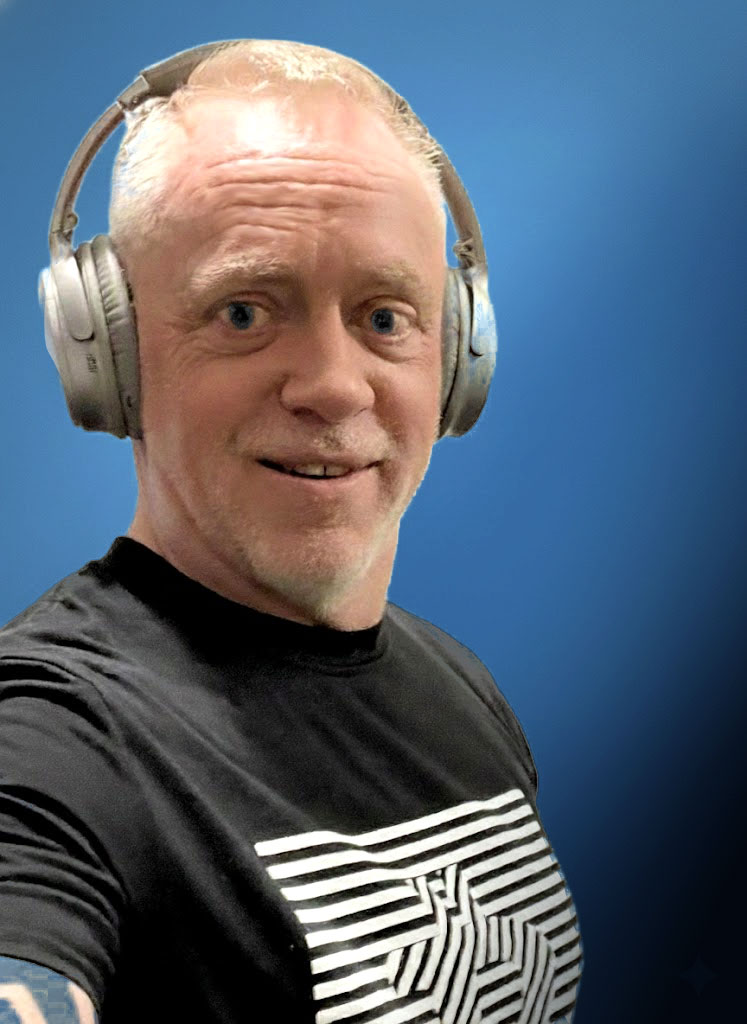
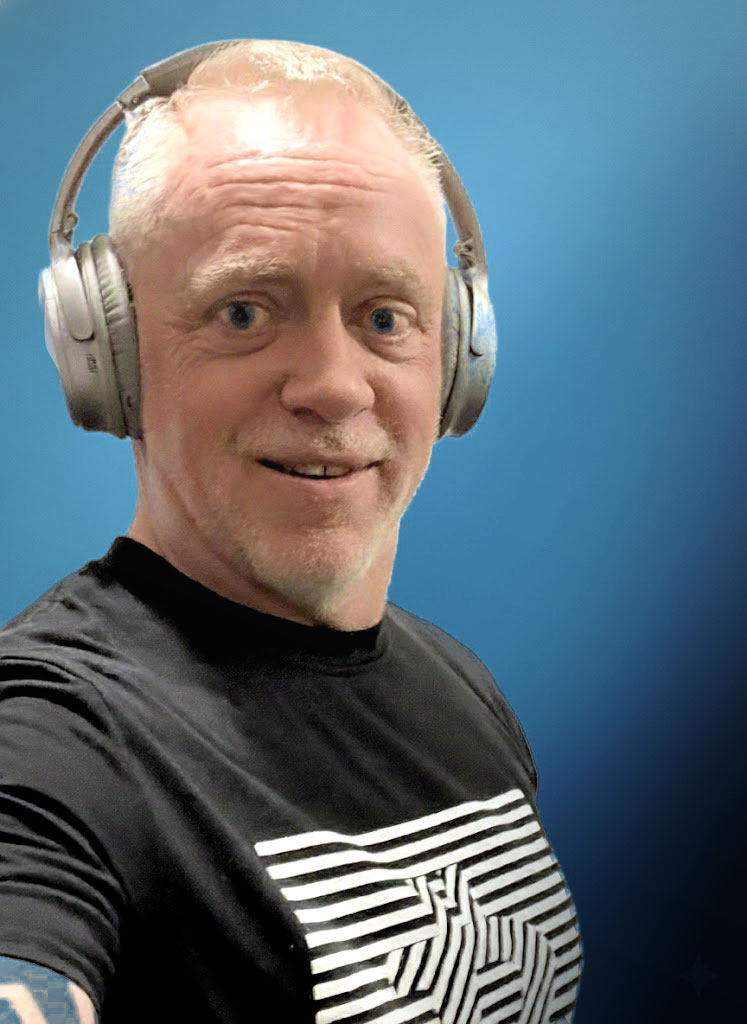
refinements

Changed region(s): [[0.0924, 0.0, 1.0, 0.3125], [0.0308, 0.0, 0.0616, 0.0312]]

diff --git a/client/src/pages/Home.js b/client/src/pages/Home.js
@@ -58,8 +58,12 @@ function Home() {
     return (
  
         <div className="homebio">
-          {bio} <br />
-          {bio2}<br />
+          {bio}
+          <p>
+          With a background in design, animation, and advertising,&nbsp;<nobr>I care about both</nobr> user experience and system architecture. <nobr>I enjoy collaborating</nobr> with product designers and engineers to develop elegant solutions to complex 
+          problems. <nobr>I’m endlessly curious </nobr>and always learning.</p>
+
+          
             <div className="sublinks">
               <Link to="/Skills">
                 <div className={"mbutton "}>Skills</div>
@@ -83,7 +87,7 @@ function Home() {
       return (
         <div className="homebodyMobile">
         <BioBlock />
-        <p className="shieldTitle">Current Development Stack:</p>
+        <p className="shieldTitle">Preferred Development Stack:</p>
         <div className="shieldGroup group">
           <div className="shieldContainer">
             <img src={react} className="shield" alt="shield" />

diff --git a/client/src/pages/Resume.jsx b/client/src/pages/Resume.jsx
@@ -206,7 +206,7 @@ function Resume() {
           </div>
           <div className='worksBox'>
 
-            <p><strong>Front End Software Engineer</strong>, <br /><span className='nobr'>Grid Dynamics - San Francisco, CA, 2021 – Current</span>
+            <p><strong>Front End Software Engineer</strong>, <br /><span>Grid Dynamics - San Francisco, CA, 2021 – Current</span>
               <br></br>
               <strong></strong></p>
             <ul>
@@ -249,7 +249,7 @@ using Elastic Search, and various custom micro-service API endpoints. Mentoring 
           </div>
           <div className='worksBox'>
             <br />
-            <p><strong>Freelance Web Developer / UI Engineer</strong>, <span className='nobr'>Dority Design Works - San Francisco, CA, 2005 – Current</span>
+            <p><strong>Freelance Web Developer / UI Engineer</strong>, <span>Dority Design Works - San Francisco, CA, 2005 – Current</span>
               <br></br>
               <strong></strong></p>
             {/* <p>

diff --git a/client/src/pages/Home.scss b/client/src/pages/Home.scss
@@ -19,17 +19,24 @@
 .mugContainer {
     box-sizing: border-box;
     text-align:left;
+
 }
 
 .mugPic {
   transition: all 1s ease-in;
-  width:100%;
+  width:101%;
   max-width:440px;
+  position: relative;
+  top: -1px;
+  left: -1px;
   opacity:1;
+      border: 8px solid rgb(111, 149, 175);
+      border-radius: 18px;
+      box-shadow: 0 0 18px rgb(111, 149, 175);
 }
 
 .sublinks {
-  padding-top:30px;
+  padding-top:0px;
   box-sizing: border-box;
 }
 
@@ -48,7 +55,7 @@
   line-height:30px;
   padding-top:20px;
   padding-bottom:40px;
-  padding-right: 30px;
+  padding-right: 40px;
   box-sizing: border-box;
   margin-bottom:20px;
   max-width:100%;
@@ -71,6 +78,7 @@
   // max-width:500px;
   min-width:506px;
   display:none;
+  margin-top: 10px;
 }
 
 
@@ -131,7 +139,7 @@ p.shieldTitle {
     box-sizing: border-box;
     display:inline-block;
     vertical-align: top;
-    margin-top:80px;
+    margin-top:60px;
     padding-left:10px;
   }
 

diff --git a/client/src/pages/Resume.scss b/client/src/pages/Resume.scss
@@ -196,11 +196,12 @@
 
 
 .skillTitle {
-    background-color:#dddddd;
+    // background-color:#d1e2e68c;
     padding:4px;
     font-weight: bold;
     padding-left: 10px;
     padding-top: 8px;
+    border-radius: 6px 6px 0 0;
 }
 
 .year {
@@ -307,11 +308,20 @@
   }
 
   .worksBox {
+    // border: 2px solid yellowgreen;
     margin-bottom: 8px;
     margin-top: 4px;
+    padding-right: 20px;
+    padding-left: 8px;
+  }
+
+  .worksBox ul {
+    position: relative;
+    left: -10px;
   }
   .logoBox {
-    width:144px;
+    // border: 2px solid fuchsia;
+    width:95%;
     text-align: center;
   }
 

diff --git a/client/src/components/Logo.js b/client/src/components/Logo.js
@@ -5,7 +5,7 @@ import "./Logo.css";
 
 function Logo(props) {
     return (<>
-              <div className="BDlogo">BART
+              <div className="BDlogo kerned">BART
               { props.stacked==="true" ? <br />: <span></span> } DORITY</div>
               <div className="BDtag">UI-Focused Full-Stack Software Engineer</div>
               <div className='tagline'>Leveraging AI for Smarter, Faster Development</div>

diff --git a/client/src/components/Logo.css b/client/src/components/Logo.css
@@ -29,3 +29,9 @@
     margin-top:0;
     margin-bottom: 8px;
 }
+
+.kerned {
+  letter-spacing: -0.02em; 
+  font-kerning: normal;
+  font-feature-settings: "kern", "liga";
+}
